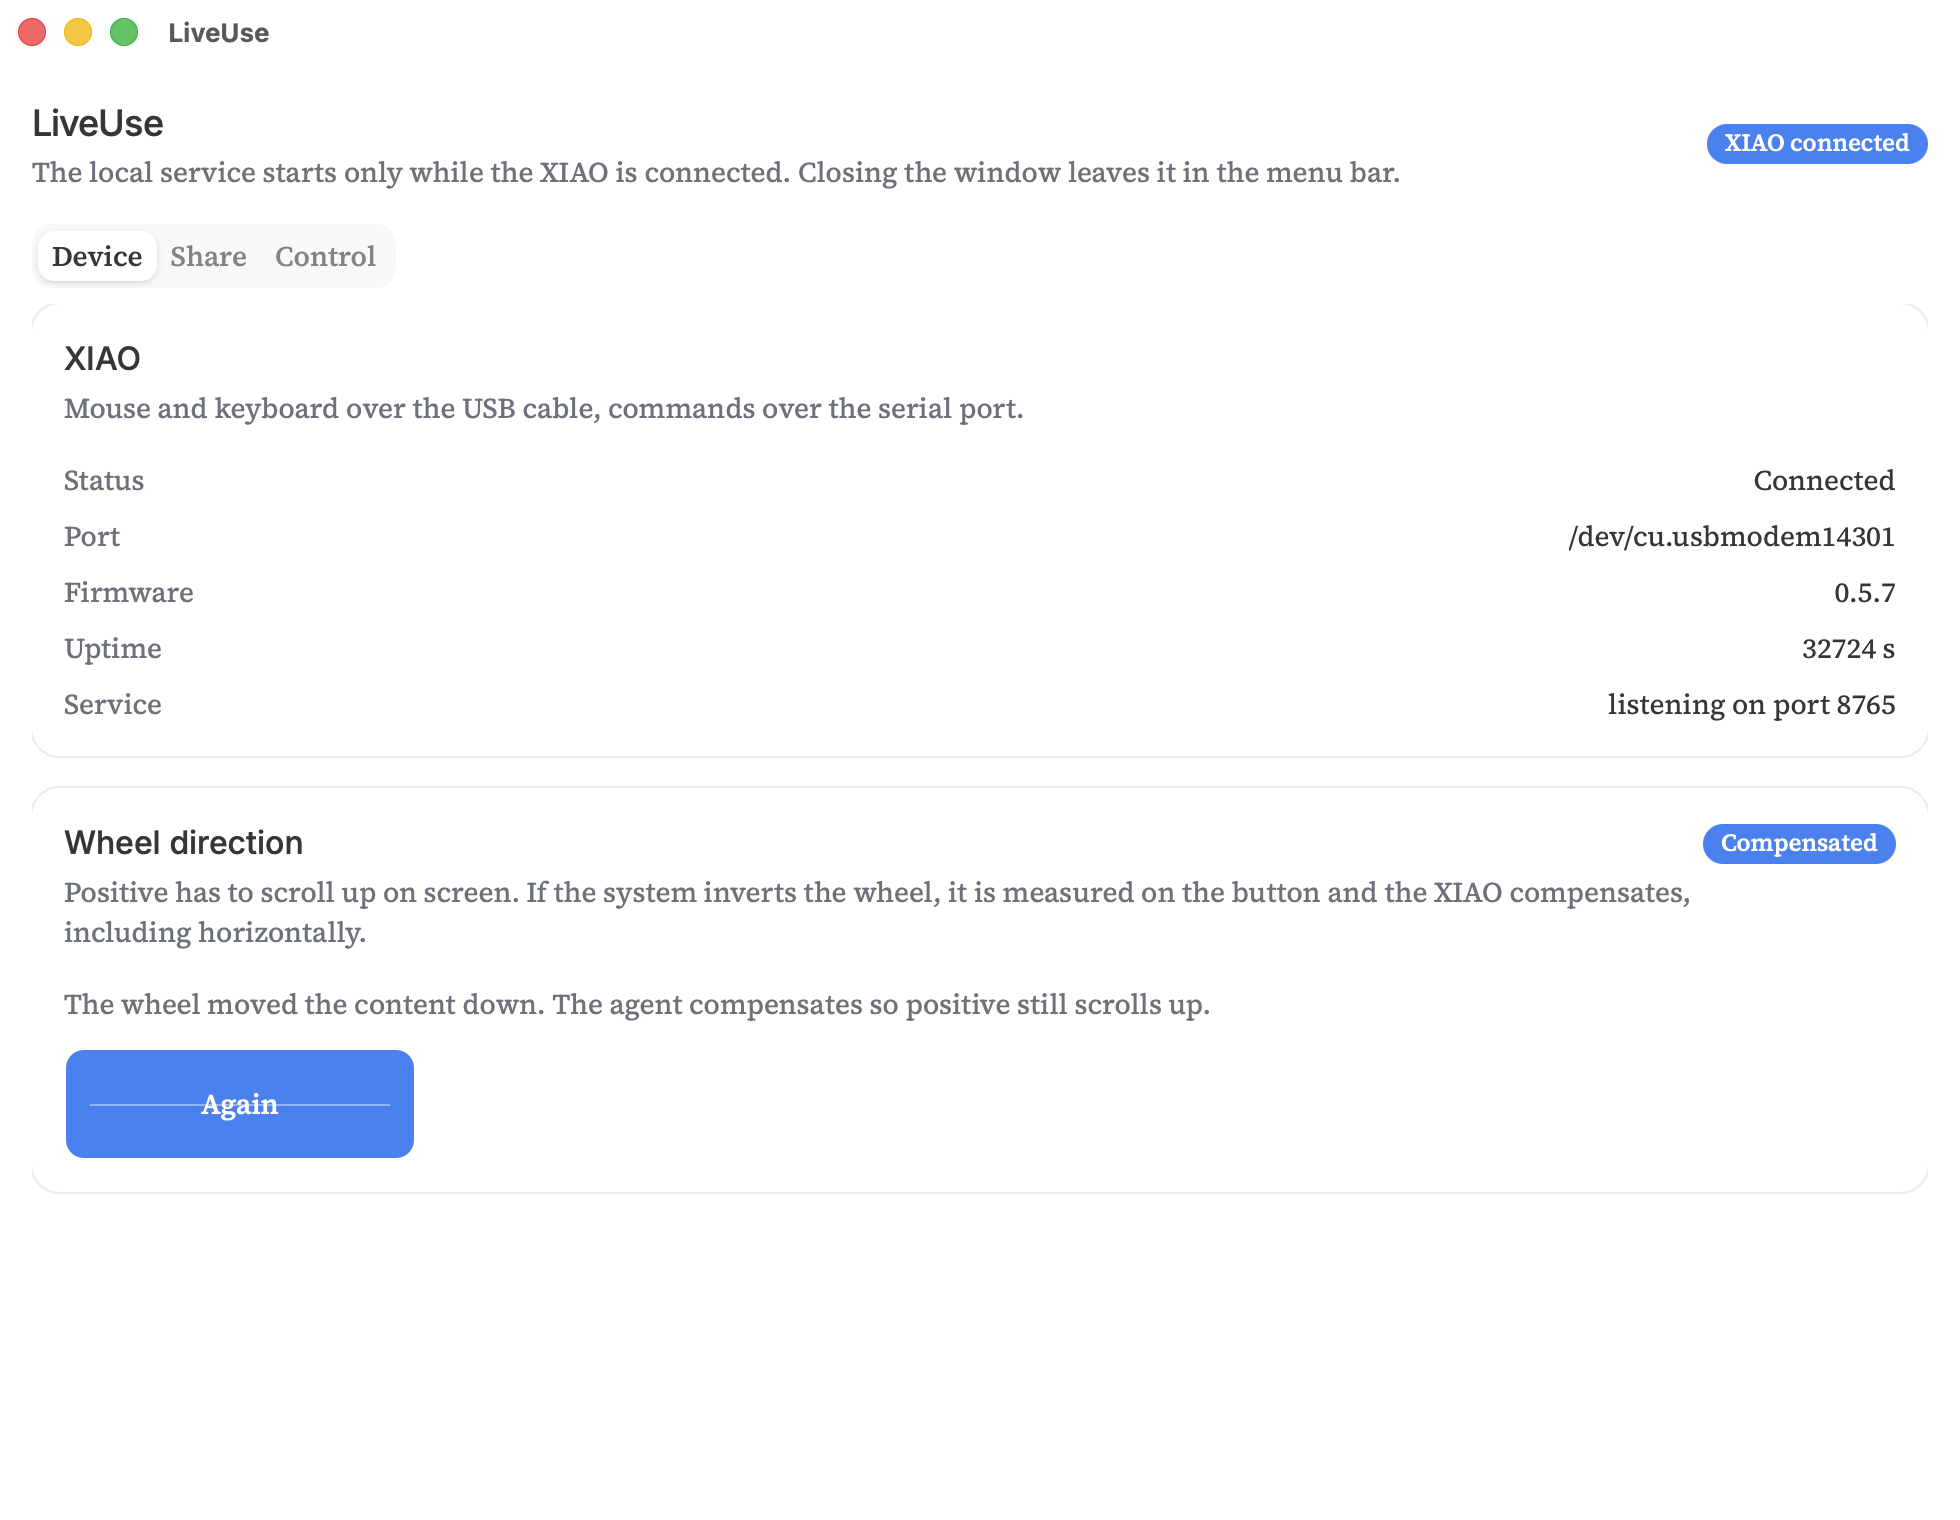
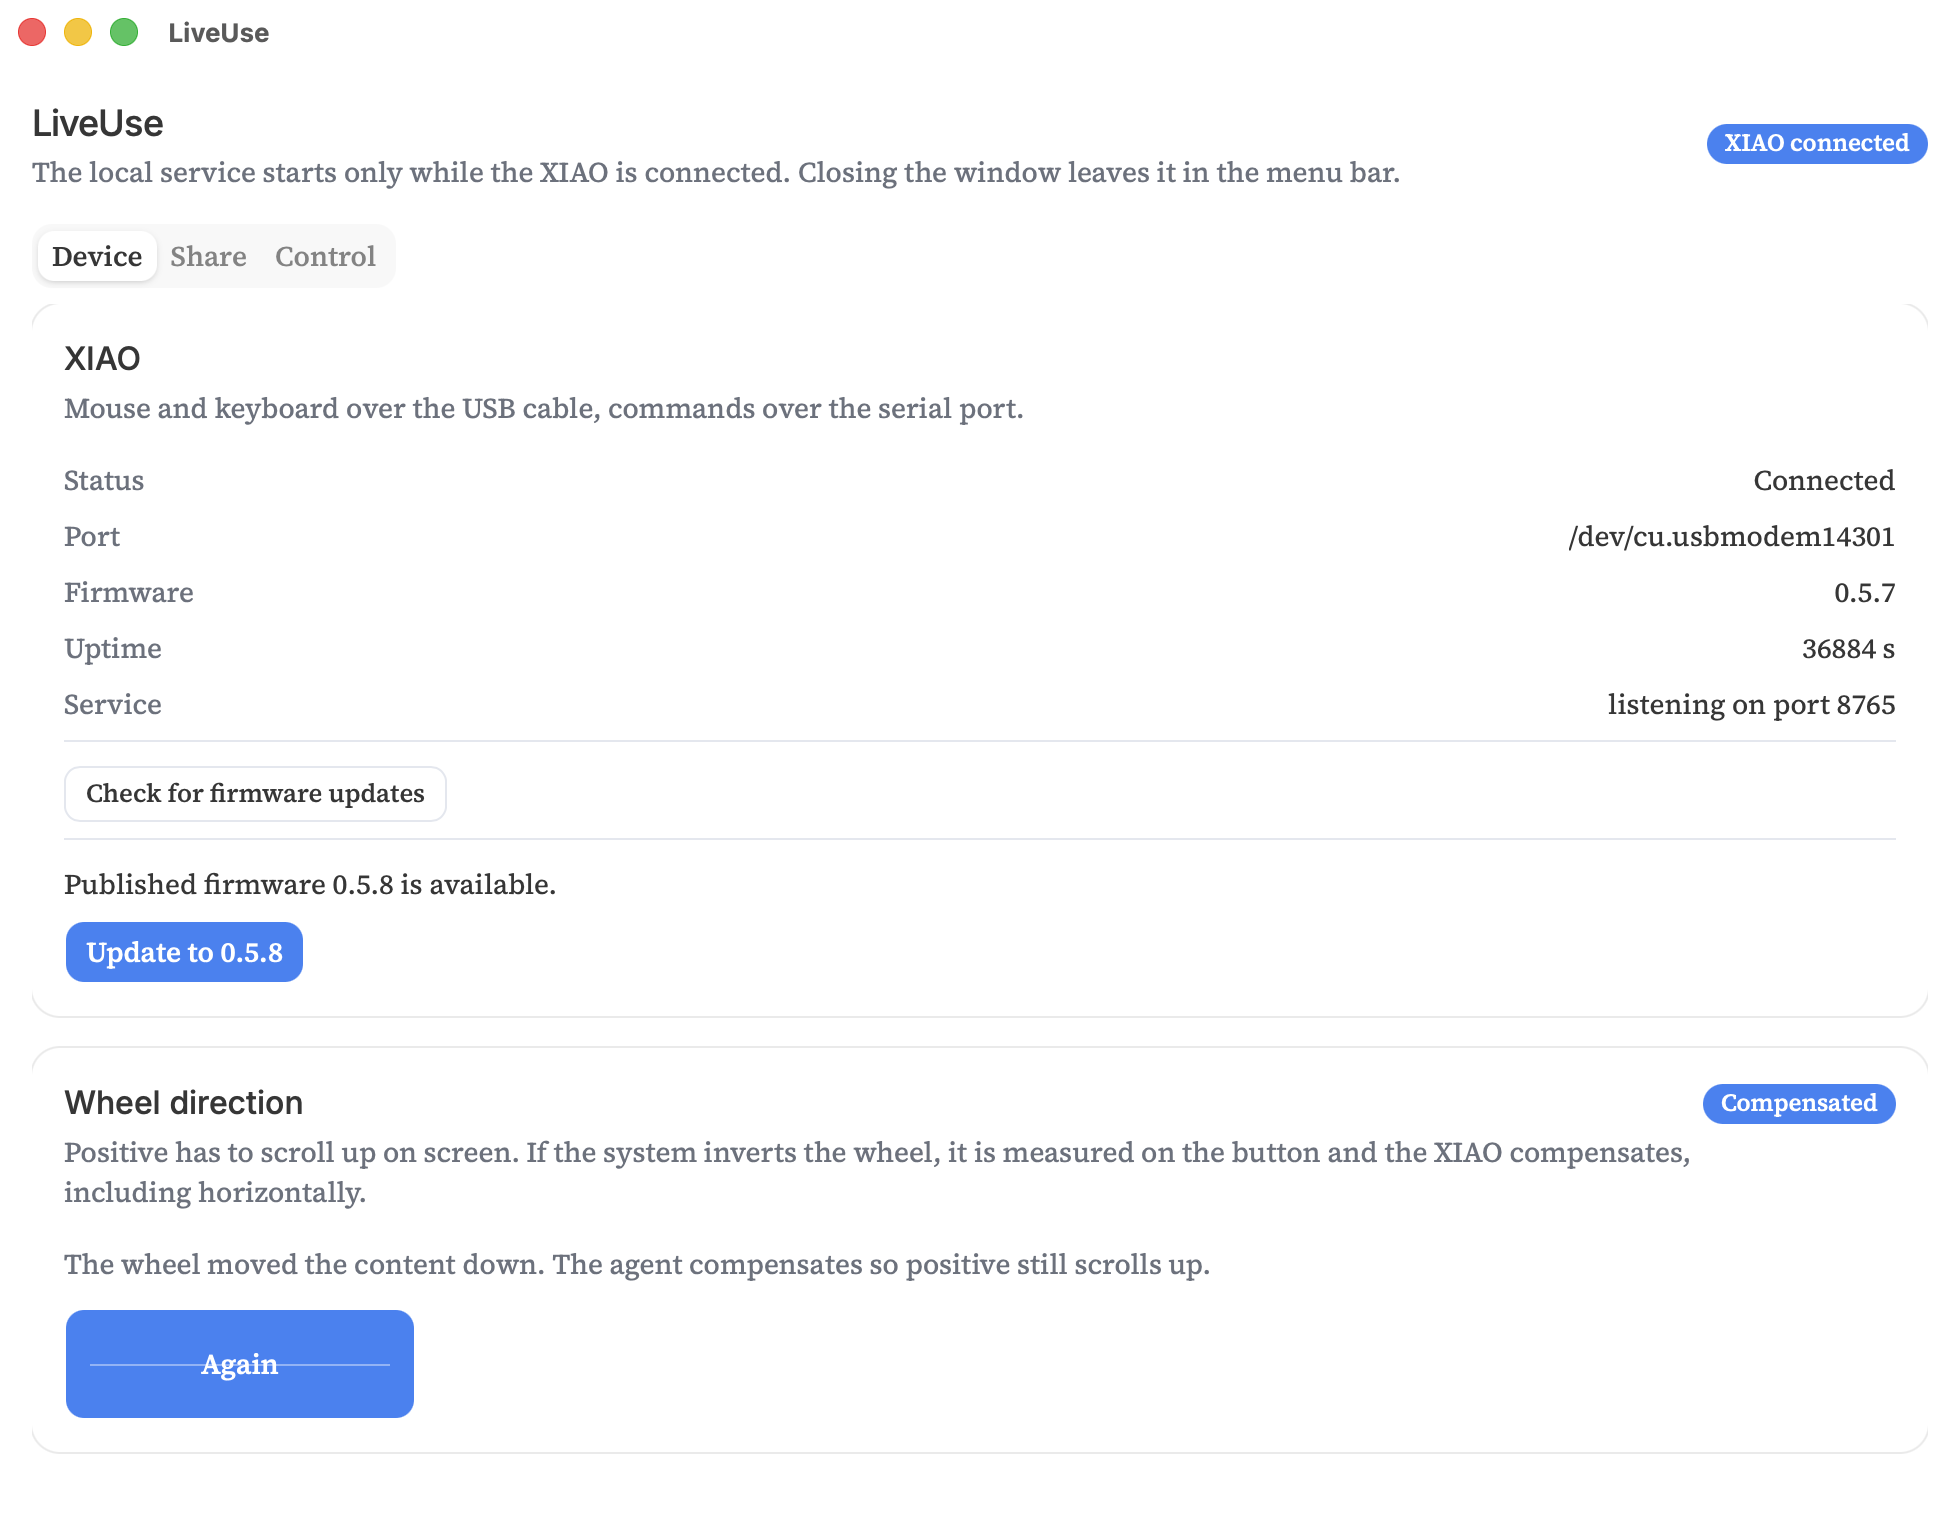
feat: add new images and update HelpPage content
Introduced new images for the XIAO SAMD21 and device help section, enhancing visual representation. Updated HelpPage text to clarify the firmware update process and modified alt text for improved accessibility. Refactored HeroStage to utilize new images, improving the overall user experience.

diff --git a/web/src/components/hero-stage.tsx b/web/src/components/hero-stage.tsx
@@ -1,22 +1,23 @@
 import Image from "next/image";
-import { XiaoBoard } from "@/components/xiao-board";
 
 export function HeroStage() {
   return (
-    <div className="relative mx-auto flex w-full max-w-xl items-center">
-      <div className="relative z-10 w-[42%] -rotate-6 rounded-2xl bg-white p-3 shadow-xl">
-        <XiaoBoard className="h-auto w-full" />
-      </div>
-      <div className="relative z-0 -ml-8 w-[72%] rotate-3 rounded-2xl border border-border bg-white shadow-xl">
-        <Image
-          src="/help/control-opus.png"
-          alt="LiveUse Control tab with Anthropic and Claude Opus 5.5 selected."
-          width={1960}
-          height={470}
-          priority
-          className="h-auto w-full rounded-2xl"
-        />
-      </div>
+    <div className="relative mx-auto w-full overflow-hidden rounded-2xl border border-border bg-white shadow-xl">
+      <Image
+        src="/help/device-hero.png"
+        alt="LiveUse Device tab with the XIAO connected and a firmware update ready to install."
+        width={1960}
+        height={1032}
+        priority
+        className="h-auto w-full"
+      />
+      <Image
+        src="/xiao-samd21-angle.png"
+        alt="Seeed XIAO SAMD21"
+        width={531}
+        height={437}
+        className="pointer-events-none absolute top-[54%] left-[64.5%] w-[21%] -translate-x-1/2 -translate-y-1/2 drop-shadow-[2px_8px_6px_rgba(0,0,0,0.16)]"
+      />
     </div>
   );
 }

diff --git a/web/src/components/xiao-board.tsx b/web/src/components/xiao-board.tsx
@@ -1,18 +1,13 @@
+import Image from "next/image";
+
 export function XiaoBoard({ className }: { className?: string }) {
   return (
-    <svg viewBox="0 0 360 220" className={className} role="img" aria-label="Seeed XIAO SAMD21">
-      <rect x="48" y="36" width="292" height="148" rx="16" fill="#1d3557" />
-      <rect x="64" y="52" width="168" height="116" rx="8" fill="#16304f" />
-      <rect x="86" y="78" width="92" height="64" rx="6" fill="#0f2744" />
-      <circle cx="214" cy="92" r="5" fill="#3ee0e8" />
-      <rect x="18" y="78" width="36" height="64" rx="8" fill="#c5ccd6" />
-      <rect x="28" y="90" width="16" height="40" rx="8" fill="#8b95a3" />
-      {Array.from({ length: 7 }, (_, index) => (
-        <rect key={`top-${index}`} x={78 + index * 28} y="28" width="16" height="18" rx="2" fill="#d6b25e" />
-      ))}
-      {Array.from({ length: 7 }, (_, index) => (
-        <rect key={`bottom-${index}`} x={78 + index * 28} y="174" width="16" height="18" rx="2" fill="#d6b25e" />
-      ))}
-    </svg>
+    <Image
+      src="/xiao-samd21.png"
+      alt="Seeed XIAO SAMD21"
+      width={398}
+      height={488}
+      className={className}
+    />
   );
 }

diff --git a/web/src/app/help/page.tsx b/web/src/app/help/page.tsx
@@ -31,13 +31,14 @@ export default function HelpPage() {
             <h2 className="text-3xl font-semibold">On this Mac</h2>
             <p className="text-pretty text-lg">
               Plug in the board with the sketch running. The Device tab should say Connected, and
-              the service should be listening. The bootloader does not start the service.
+              the service should be listening. The bootloader does not start the service. When a
+              newer firmware is published, this tab writes it onto the board.
             </p>
           </div>
           <Shot
             src="/help/device.png"
-            alt="LiveUse Device tab with the XIAO connected and the service listening."
-            caption="The board, the firmware, and the local service."
+            alt="LiveUse Device tab with the XIAO connected and a firmware update ready to install."
+            caption="The board is connected, and a published firmware update is ready to write."
             width={1960}
             height={1520}
           />
